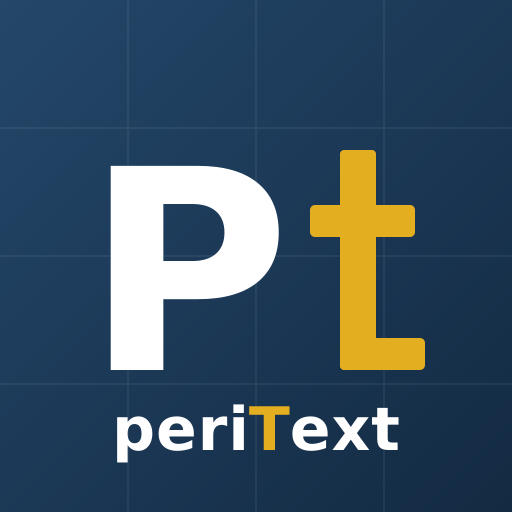
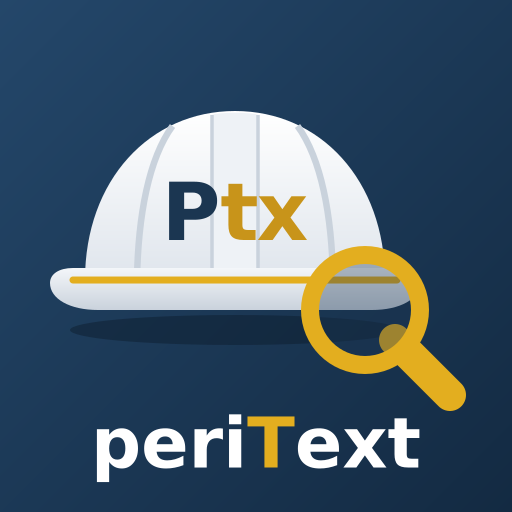
periText 1.30.3: ícone final — capacete branco de engenheiro com «Ptx» e lupa, nome periText em destaque
Claude-Session: https://claude.ai/code/session_01WmKbB1zPqE2Pw3SiZDiLEV

Changed region(s): [[0.0938, 0.2188, 0.9062, 0.8125], [0.1875, 0.7812, 0.8125, 0.9688]]

diff --git a/relat/index.html b/relat/index.html
@@ -765,7 +765,7 @@ function buildPdf({proc,settings,anoms,layout,withPhotos,photoCols,dateCom,withV
 }
 
 // ===== App: periText (antes «Relatório de Peritagem») =====
-const VERSION='1.30.2';const VERSION_DATA='2026-11-22';/* data da release: atualizar sempre com VERSION */
+const VERSION='1.30.3';const VERSION_DATA='2026-11-22';/* data da release: atualizar sempre com VERSION */
 const DEF_PARTES=[{n:1,nome:'Autor'},{n:2,nome:'Réu'},{n:3,nome:'Tribunal'},{n:4,nome:'Perito (constatadas no local)'},{n:5,nome:'Solicitante'}];
 const parteSig=(p,n)=>{const nm=String(parteNome(p,n)||'').normalize('NFD').replace(/[\u0300-\u036f]/g,'').trim().toUpperCase();return /^PERIT/.test(nm)?'P':/^AUTOR/.test(nm)?'A':/^REU/.test(nm)?'R':/^TRIB/.test(nm)?'T':/^SOLIC/.test(nm)?'S':(nm[0]||String(n))};
 const parteOf=(p,a)=>a.parte??(a.origem==='local'?(p.parteLocal??4):parteLista(p));

diff --git a/relat/sw.js b/relat/sw.js
@@ -1,6 +1,6 @@
 // Relatório de Peritagem — service worker: guarda a app no aparelho para funcionar sem rede.
 // Estratégia "rede primeiro": com rede, vai sempre buscar a versão mais recente; sem rede, usa a cópia guardada.
-const CACHE = 'relat-anomalias-v10';
+const CACHE = 'relat-anomalias-v11';
 const ASSETS = ['./', 'index.html', 'manifest.json', 'icon-180.png', 'icon-192.png', 'icon-512.png'];
 self.addEventListener('install', e => {
   e.waitUntil(caches.open(CACHE).then(c => c.addAll(ASSETS)).then(() => self.skipWaiting()));
